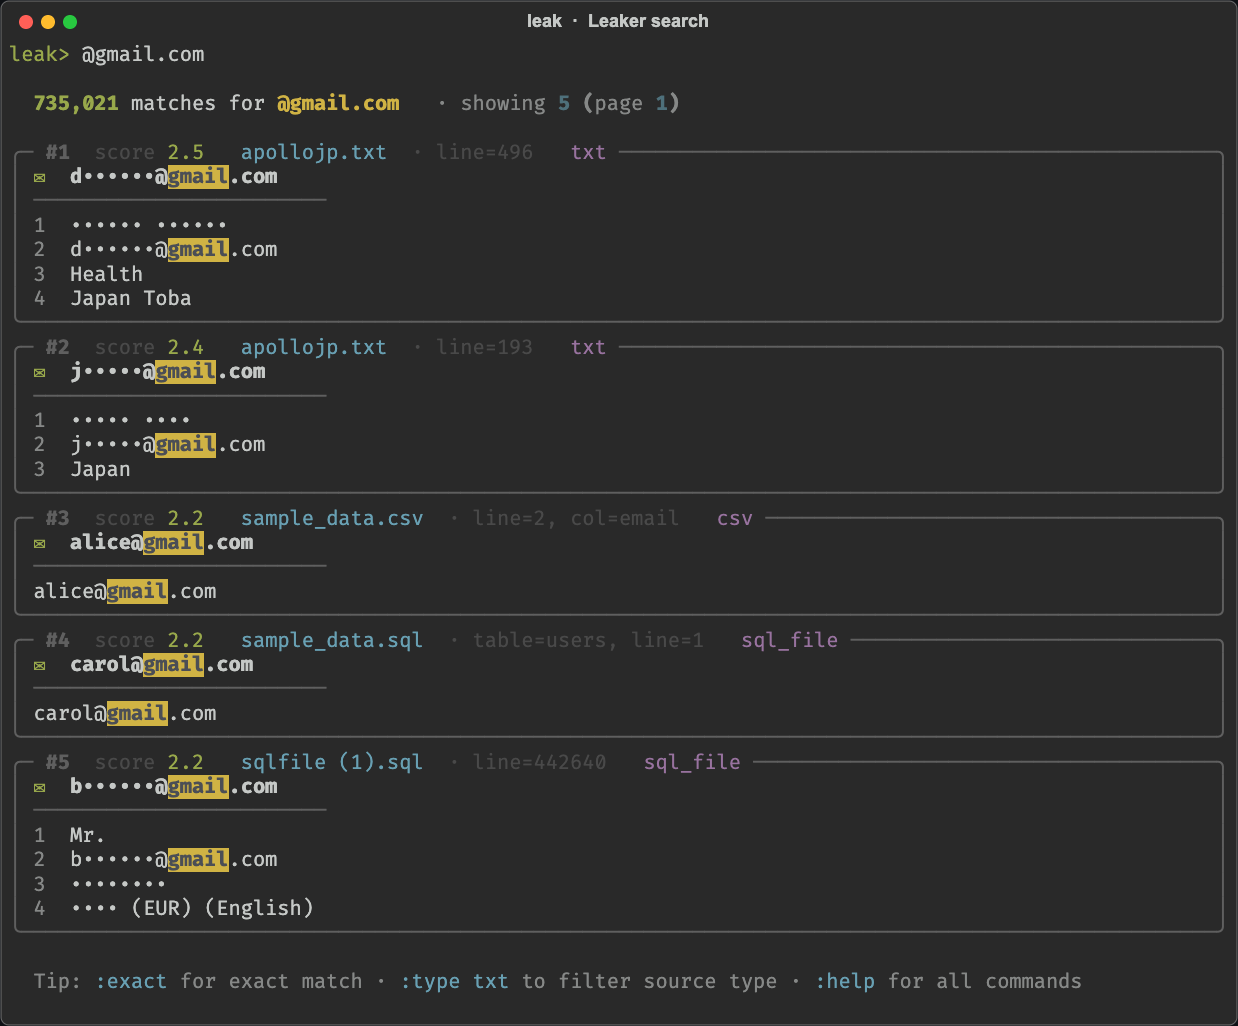
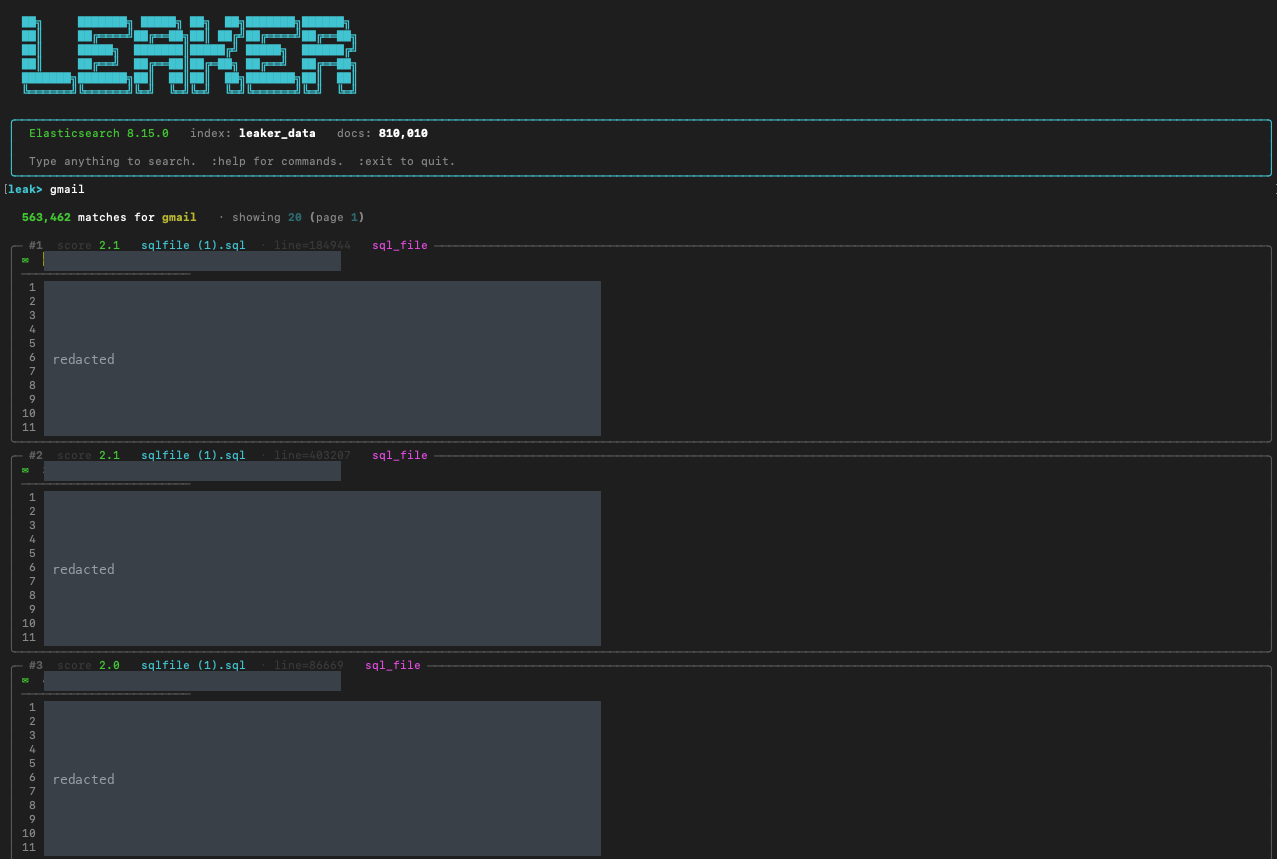
Leaker: use real redacted leak session screenshot; update live-search caption

diff --git a/README.md b/README.md
@@ -14,13 +14,13 @@ So Leaker does it with plain parsing. Each format has a small parser, and **rege
 
 ### Live search
 
-A real run against a local index of 810,010 records. Searching `@gmail.com` returns every match across text dumps, SQL dumps, CSV and more, each with its source and line. (Real emails are masked here; the synthetic `sample_data.*` rows are shown in full.)
+A real `leak` session against a live index of 810,010 records. Searching `gmail` returns **563,462 matches**, each shown as a card with its source file, line and type, and the matched term highlighted. The record fields are redacted in this screenshot because the indexed data is real.
 
 ![Leaker live search](assets/demo.png)
 
 > **No LLM. No API keys.** Pure parsers into Elasticsearch. Fast, offline, deterministic.
 >
-> <sub>Diagram and screenshot reproducible via [`assets/make_diagram.py`](assets/make_diagram.py) and [`assets/make_screenshot.py`](assets/make_screenshot.py).</sub>
+> <sub>Diagram reproducible via [`assets/make_diagram.py`](assets/make_diagram.py). The screenshot is a real session with record fields redacted.</sub>
 
 ---
 
